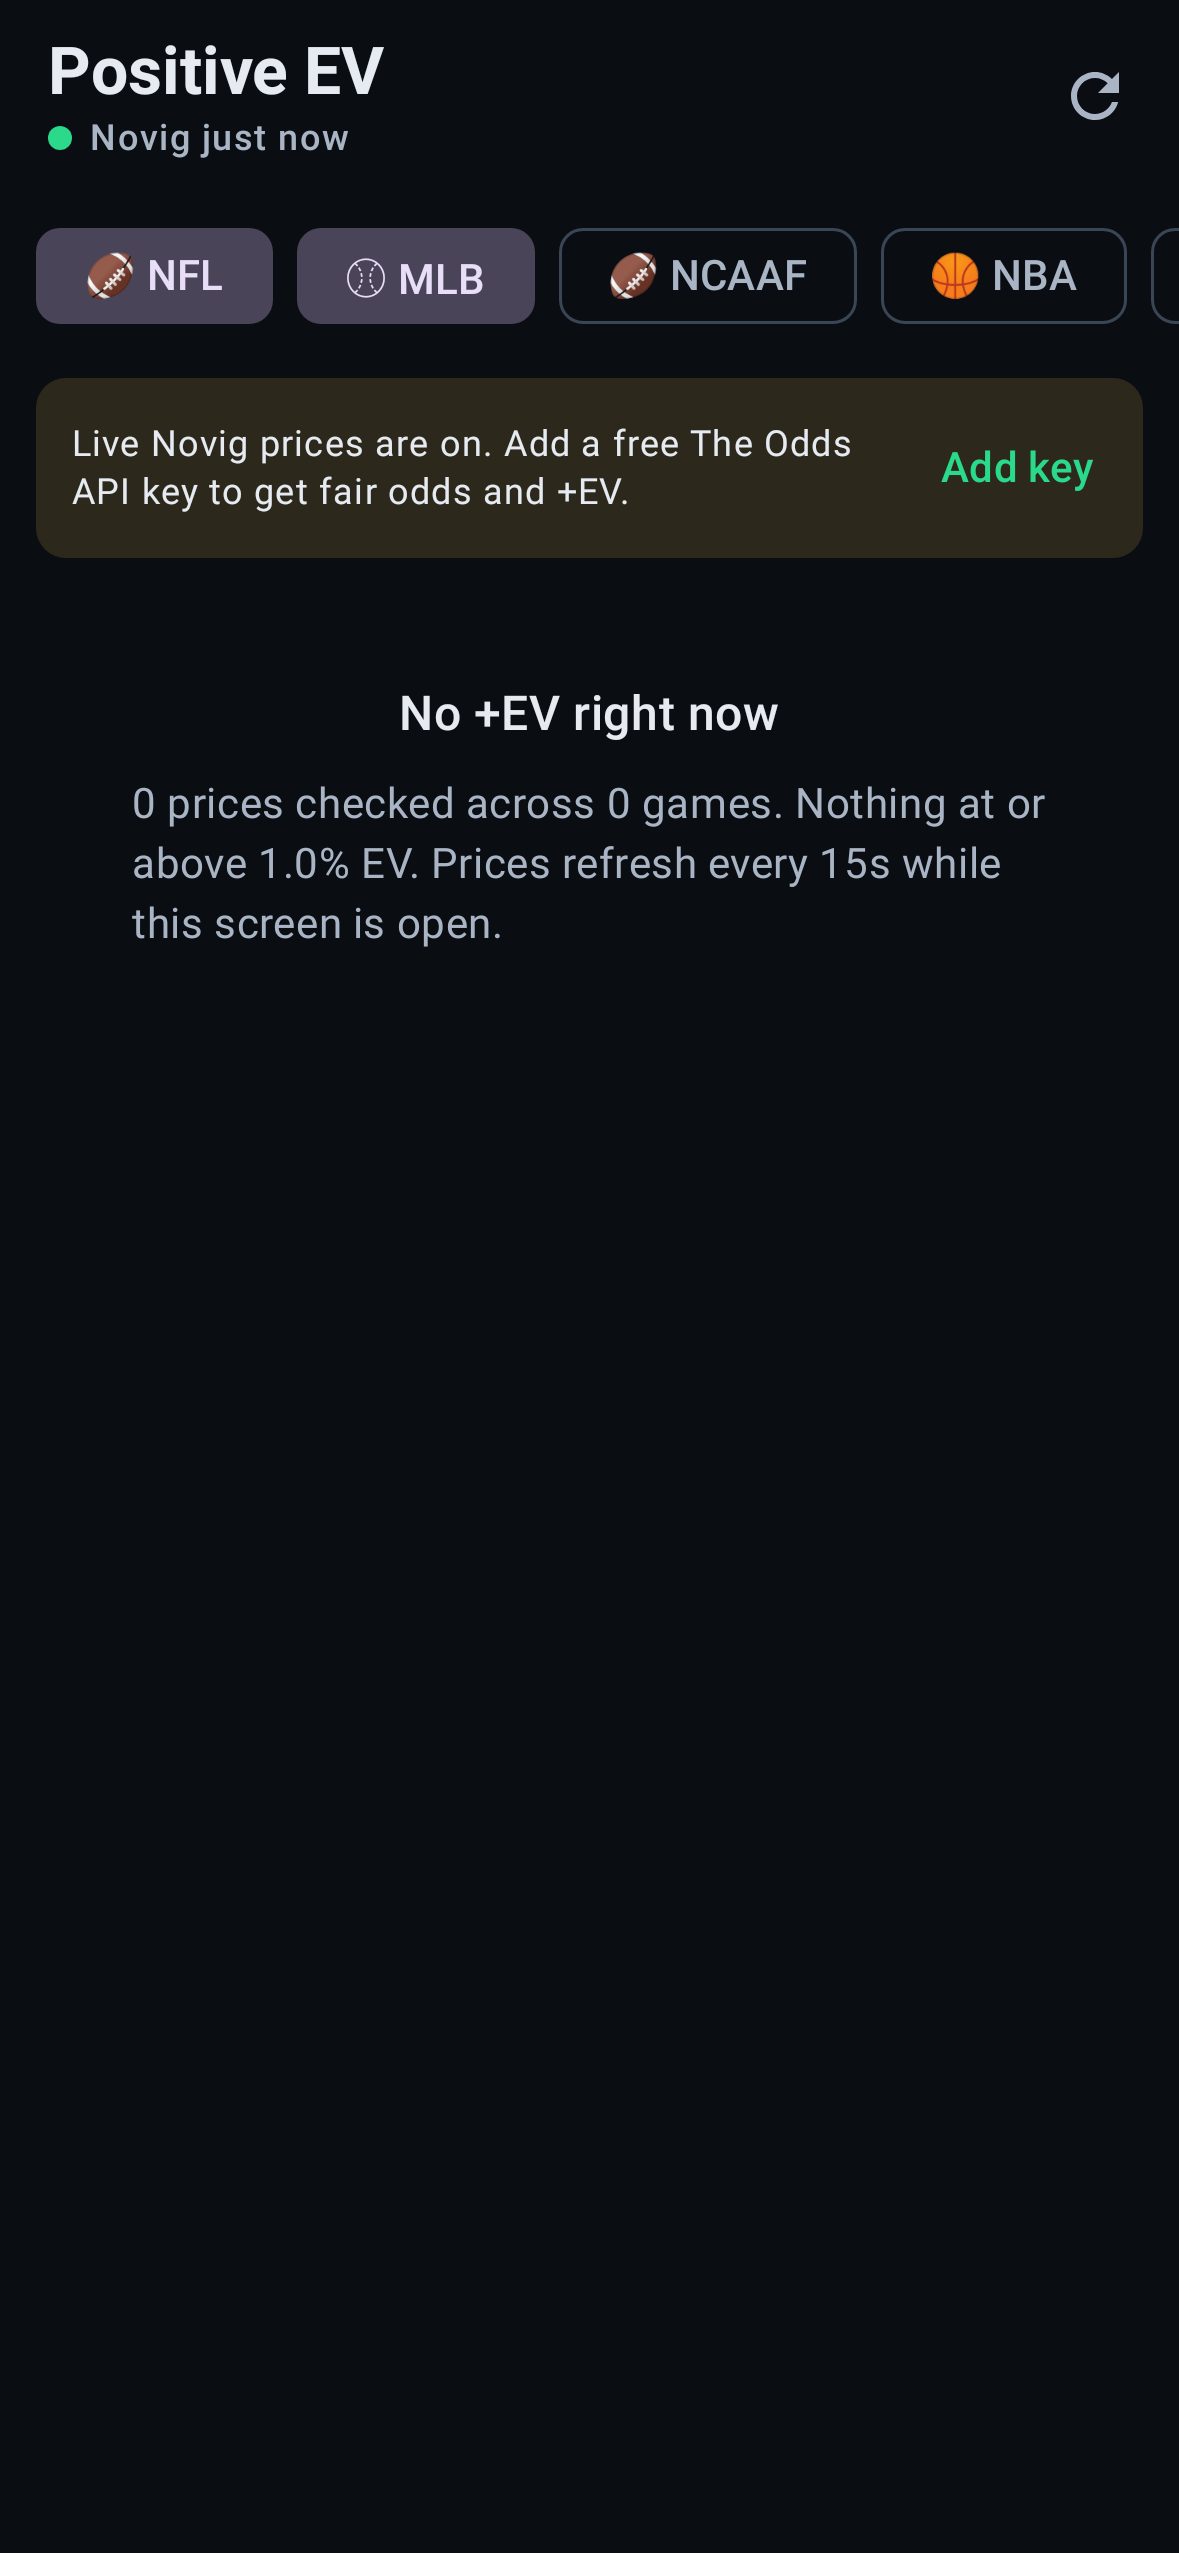
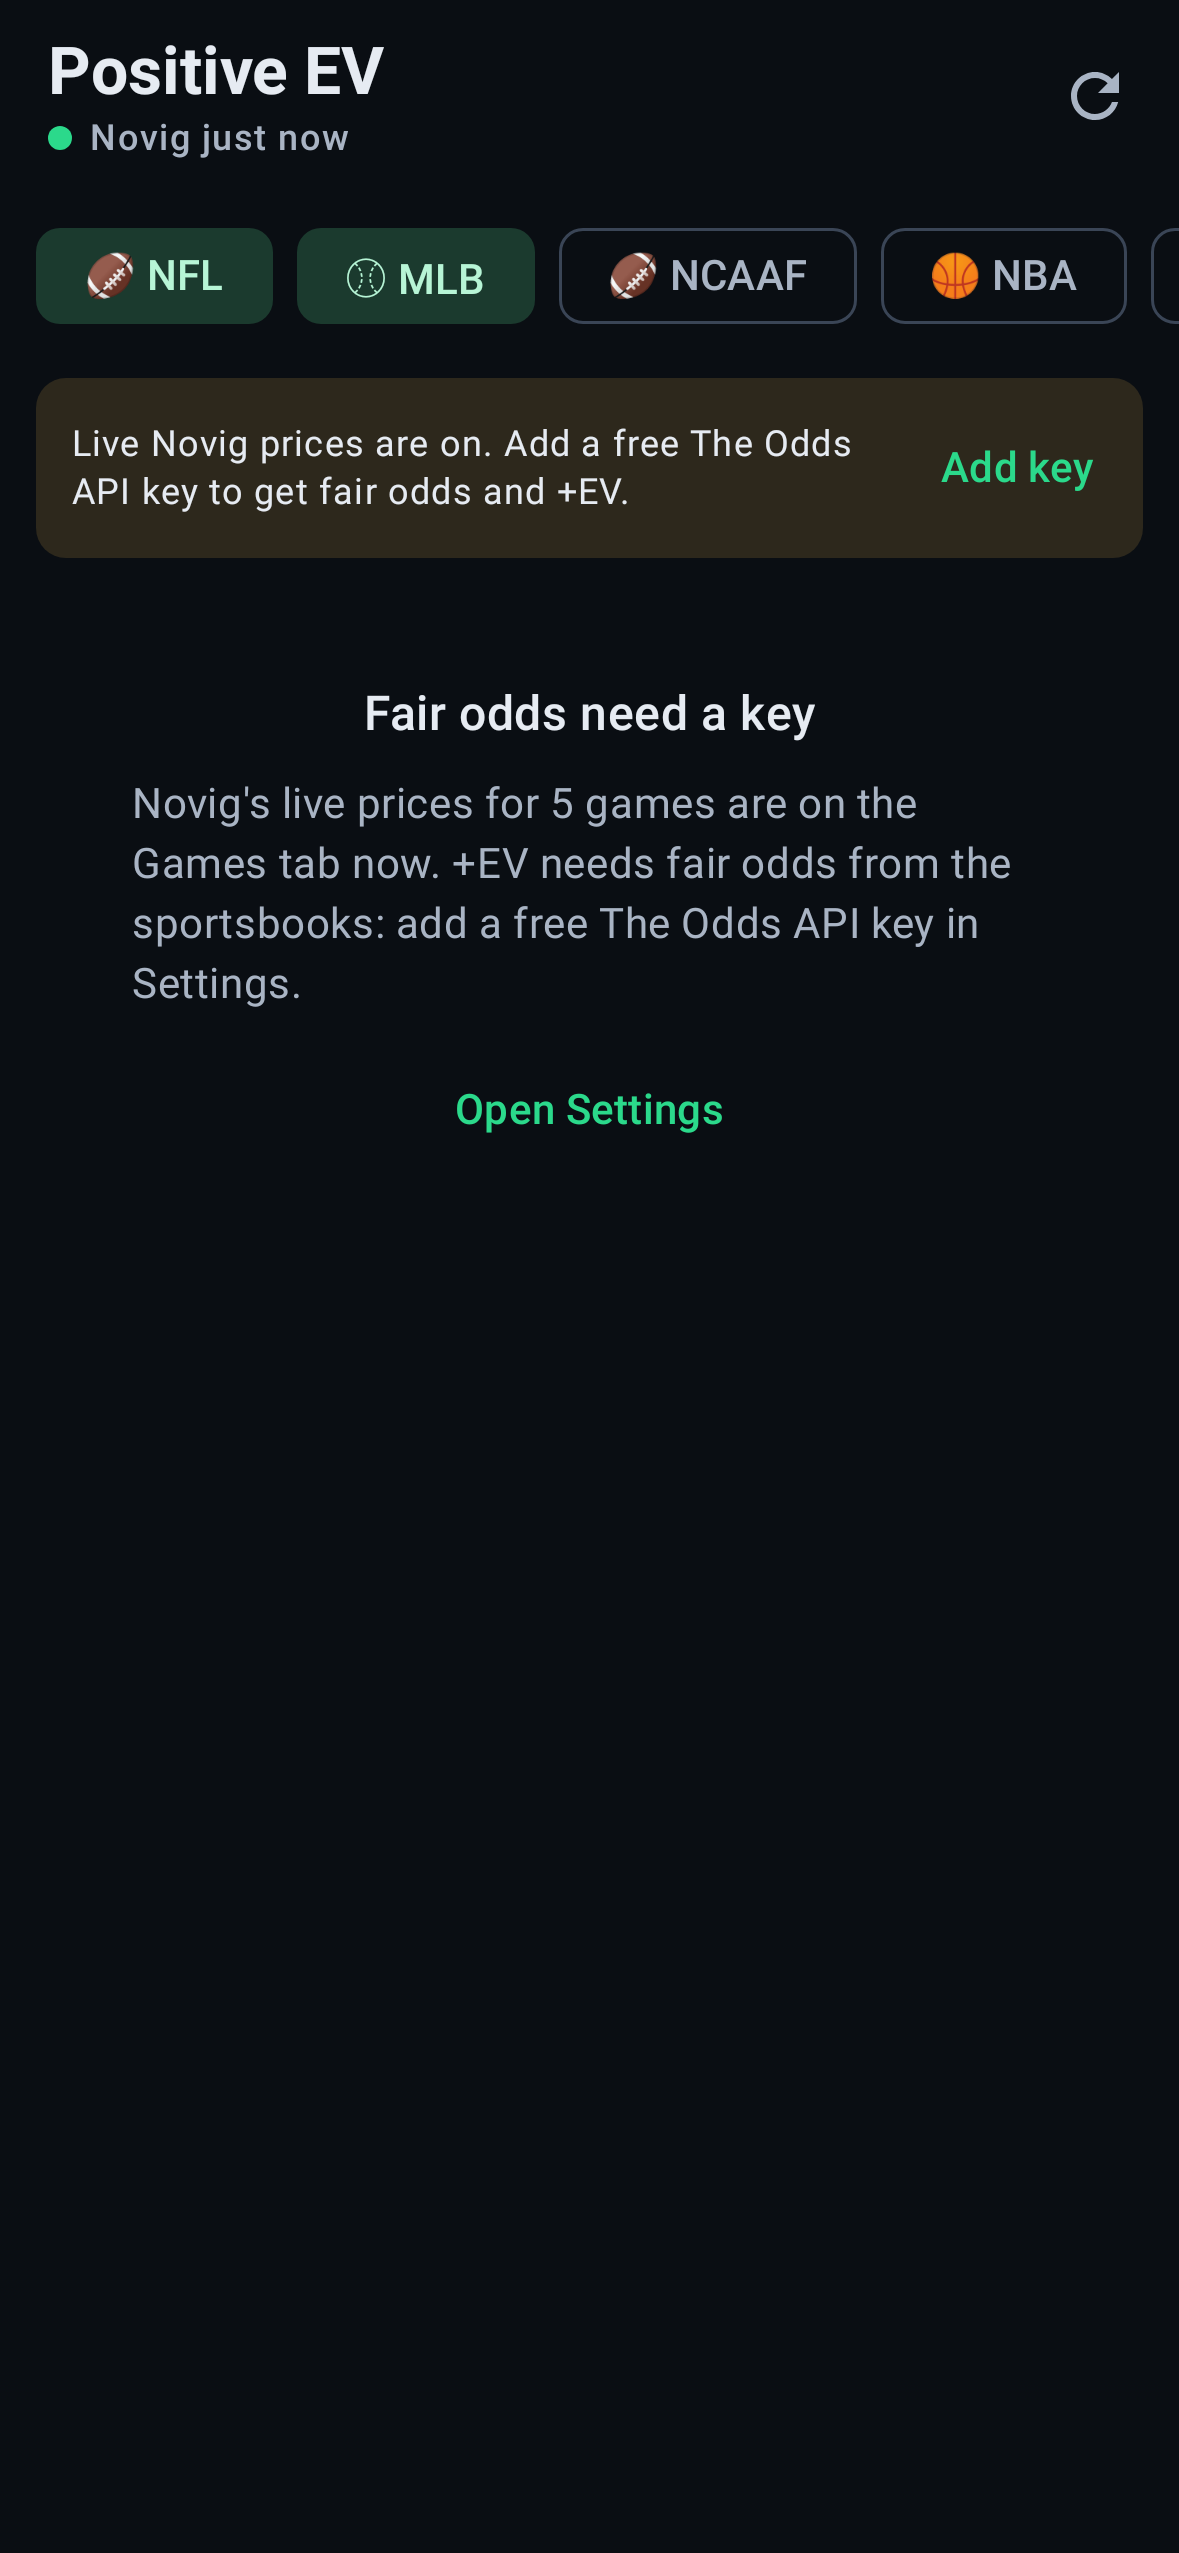
auto-checkpoint: 2026-09-25T05:45:23Z
Automatic hook checkpoint — not a reviewed commit. See CHECKPOINT.md
for where the session actually stands.

diff --git a/app/src/test/kotlin/com/tjshea/vigilant/app/ScreenshotTest.kt b/app/src/test/kotlin/com/tjshea/vigilant/app/ScreenshotTest.kt
@@ -1,11 +1,12 @@
 package com.tjshea.vigilant.app
 
-import androidx.compose.foundation.background
-import androidx.compose.foundation.layout.Box
+import androidx.compose.material3.Surface
 import androidx.compose.material3.MaterialTheme
-import androidx.compose.ui.Modifier
 import androidx.compose.ui.test.junit4.createComposeRule
+import androidx.compose.ui.test.assertIsDisplayed
+import androidx.compose.ui.test.onNodeWithText
 import androidx.compose.ui.test.onRoot
+import androidx.compose.ui.test.performClick
 import androidx.test.ext.junit.runners.AndroidJUnit4
 import com.github.takahirom.roborazzi.captureRoboImage
 import com.tjshea.vigilant.app.ui.FeedScreen
@@ -35,7 +36,8 @@ class ScreenshotTest {
     private fun shoot(name: String, dark: Boolean = true, content: @androidx.compose.runtime.Composable () -> Unit) {
         compose.setContent {
             VigilantTheme(darkTheme = dark) {
-                Box(Modifier.background(MaterialTheme.colorScheme.background)) { content() }
+                // A Surface, like the app's own Scaffold/sheet, so text gets the theme's content color.
+                Surface(color = MaterialTheme.colorScheme.background) { content() }
             }
         }
         compose.onRoot().captureRoboImage("screenshots/$name.png")
@@ -58,4 +60,17 @@ class ScreenshotTest {
 
     @Config(qualifiers = "w393dp-h2200dp-xxhdpi")
     @Test fun settings() = shoot("5_settings") { SettingsScreen(SampleScan.state(), {}, {}, {}) }
+
+    @Test fun tappingACardOpensItsDetailWithTheBookBreakdown() {
+        val s = SampleScan.state()
+        compose.setContent { VigilantTheme { FeedScreen(s, {}, {}, {}, { _, _ -> }) } }
+        compose.onNodeWithText("Dallas Cowboys").performClick()
+        compose.onNodeWithText("FAIR ODDS: BLEND · POWER").assertIsDisplayed()
+        compose.onNodeWithText("Track").assertIsDisplayed()
+    }
+
+    @Test fun noKeyPointsToTheGamesTabInsteadOfClaimingZeroGames() {
+        compose.setContent { VigilantTheme { FeedScreen(SampleScan.state(withKey = false), {}, {}, {}, { _, _ -> }) } }
+        compose.onNodeWithText("Fair odds need a key").assertIsDisplayed()
+    }
 }

diff --git a/engine/src/main/kotlin/com/tjshea/vigilant/engine/FairValue.kt b/engine/src/main/kotlin/com/tjshea/vigilant/engine/FairValue.kt
@@ -5,15 +5,15 @@ package com.tjshea.vigilant.engine
  * using either sharp sports books or average odds across books or a blend", modeled on
  * OddsJam's fair-odds source picker.
  */
-enum class FairSource(val displayName: String) {
+enum class FairSource(val displayName: String, val shortName: String) {
     /** Only the books marked sharp (Pinnacle by default). */
-    SHARP("Sharp books"),
+    SHARP("Sharp books", "Sharp"),
 
     /** Every book quoting the line, each devigged, then averaged. */
-    MARKET_AVERAGE("Market average"),
+    MARKET_AVERAGE("Market average", "Average"),
 
     /** `sharpWeight x sharp + (1 - sharpWeight) x market average`. */
-    BLEND("Blend"),
+    BLEND("Blend", "Blend"),
 }
 
 data class FairSettings(
@@ -42,7 +42,7 @@ data class FairSettings(
 
         /** Books commonly treated as sharp that The Odds API carries. */
         val KNOWN_SHARP_CANDIDATES: List<String> =
-            listOf("pinnacle", "betonlineag", "lowvig", "betfair_ex_eu", "matchbook", "bookmaker")
+            listOf("pinnacle", "betonlineag", "lowvig", "betfair_ex_eu", "matchbook")
     }
 }
 

diff --git a/app/src/main/kotlin/com/tjshea/vigilant/app/ui/FeedScreen.kt b/app/src/main/kotlin/com/tjshea/vigilant/app/ui/FeedScreen.kt
@@ -116,6 +116,13 @@ private fun FeedSummary(state: UiState, onOpenSettings: () -> Unit) {
                 EmptyState("Pick a league", "Choose one or more leagues above to start scanning Novig.")
             result == null ->
                 EmptyState("Scanning Novig…", "Pulling the board and matching it to the sportsbooks.")
+            !state.status.hasOddsKey -> EmptyState(
+                "Fair odds need a key",
+                "Novig's live prices for ${result.games.size} games are on the Games tab now. +EV needs fair " +
+                    "odds from the sportsbooks: add a free The Odds API key in Settings.",
+                action = "Open Settings",
+                onAction = onOpenSettings,
+            )
             state.feed.isEmpty() -> EmptyState(
                 "No +EV right now",
                 "${result.stats.outcomesWithFair} prices checked across ${result.stats.matchedEvents} games. " +

diff --git a/app/src/main/kotlin/com/tjshea/vigilant/app/ui/Theme.kt b/app/src/main/kotlin/com/tjshea/vigilant/app/ui/Theme.kt
@@ -44,6 +44,9 @@ private val DarkColors = darkColorScheme(
     primaryContainer = Color(0xFF123A2A),
     onPrimaryContainer = Color(0xFFB7F5D6),
     secondary = Color(0xFF7CB7FF),
+    // FilterChip/NavigationBar selection color: green-tinted instead of Material's default lavender.
+    secondaryContainer = Color(0xFF1B3A2E),
+    onSecondaryContainer = Color(0xFFB7F5D6),
     background = Color(0xFF0A0E13),
     onBackground = Color(0xFFE6EBF2),
     surface = Color(0xFF0A0E13),
@@ -65,6 +68,8 @@ private val LightColors = lightColorScheme(
     primaryContainer = Color(0xFFD5F5E6),
     onPrimaryContainer = Color(0xFF00391F),
     secondary = Color(0xFF1E5FB3),
+    secondaryContainer = Color(0xFFD5F5E6),
+    onSecondaryContainer = Color(0xFF00391F),
     background = Color(0xFFF6F8FA),
     surface = Color(0xFFF6F8FA),
     surfaceContainer = Color(0xFFFFFFFF),

diff --git a/app/src/main/kotlin/com/tjshea/vigilant/app/ui/SettingsScreen.kt b/app/src/main/kotlin/com/tjshea/vigilant/app/ui/SettingsScreen.kt
@@ -85,7 +85,7 @@ fun SettingsScreen(
                         selected = s.fairSource == source,
                         onClick = { onUpdate { it.copy(fairSource = source) } },
                         shape = SegmentedButtonDefaults.itemShape(i, FairSource.entries.size),
-                    ) { Text(source.displayName.substringBefore(" books")) }
+                    ) { Text(source.shortName, maxLines = 1) }
                 }
             }
             Hint(
